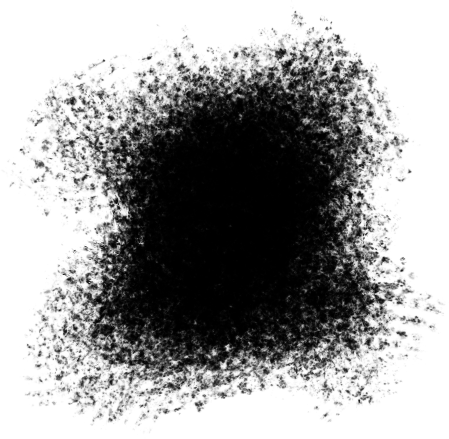
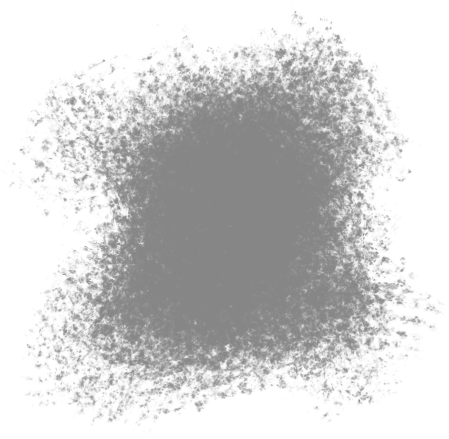
Imágenes semitransparentes

diff --git a/webs/audio/nuevoReproductorWP.html b/webs/audio/nuevoReproductorWP.html
@@ -5384,6 +5384,7 @@ window.addEventListener("message", main, false);
 
 <script type="text/javascript">
   var h;
+  var step;
   var imgs = new Array(10);
   function setup() {
 
@@ -5399,8 +5400,9 @@ window.addEventListener("message", main, false);
     else{
       createCanvas(windowWidth, windowHeight);
     }
-    colorMode(HSB, 100);
-    h = 10;
+    colorMode(HSB, 360);
+    h = 120;
+    step = 0.2;
     noStroke();
   }
 
@@ -5425,18 +5427,27 @@ function windowResized() {
 
     br = nivel;
 
-    var col = color(h, 50, br);
+    var col = color(h, 180, br);
     background(col);
 
-    var col2 = color(h+30,50,100,nivel);
+    var col2 = color(h+80,180,360);
     fill(col2);
     // for(var i = 0; i<100 ;i++){
     // ellipse(random(0,width), random(0,height), random(25-250), random(25-250));
     // }
+    //Dibujar manchas
+    for (var ind = 0; ind < 25; ind++) {
+      var sz = random(200,800);
+      image(random(imgs), random(-windowWidth+50, windowWidth), random(-windowHeight+50,windowHeight),sz,sz);
+    }
 
-    h += 0.5;
-    if (h > 100) {
-      h = 0;
+
+    h += step;
+    if (h > 240) {
+      step = -0.2;
+    }
+    if (h < 120) {
+      step = 0.2;
     }
 
 
@@ -5447,7 +5458,7 @@ function windowResized() {
       volumenTotal += dataArray[i];
     }
     console.log('Volumen: '+volumenTotal);
-    nivel = volumenTotal/1000;
+    nivel = volumenTotal/1000 * 3.6;
     console.log('Nivel: '+nivel);
     volumenTotal = 0;
   }
